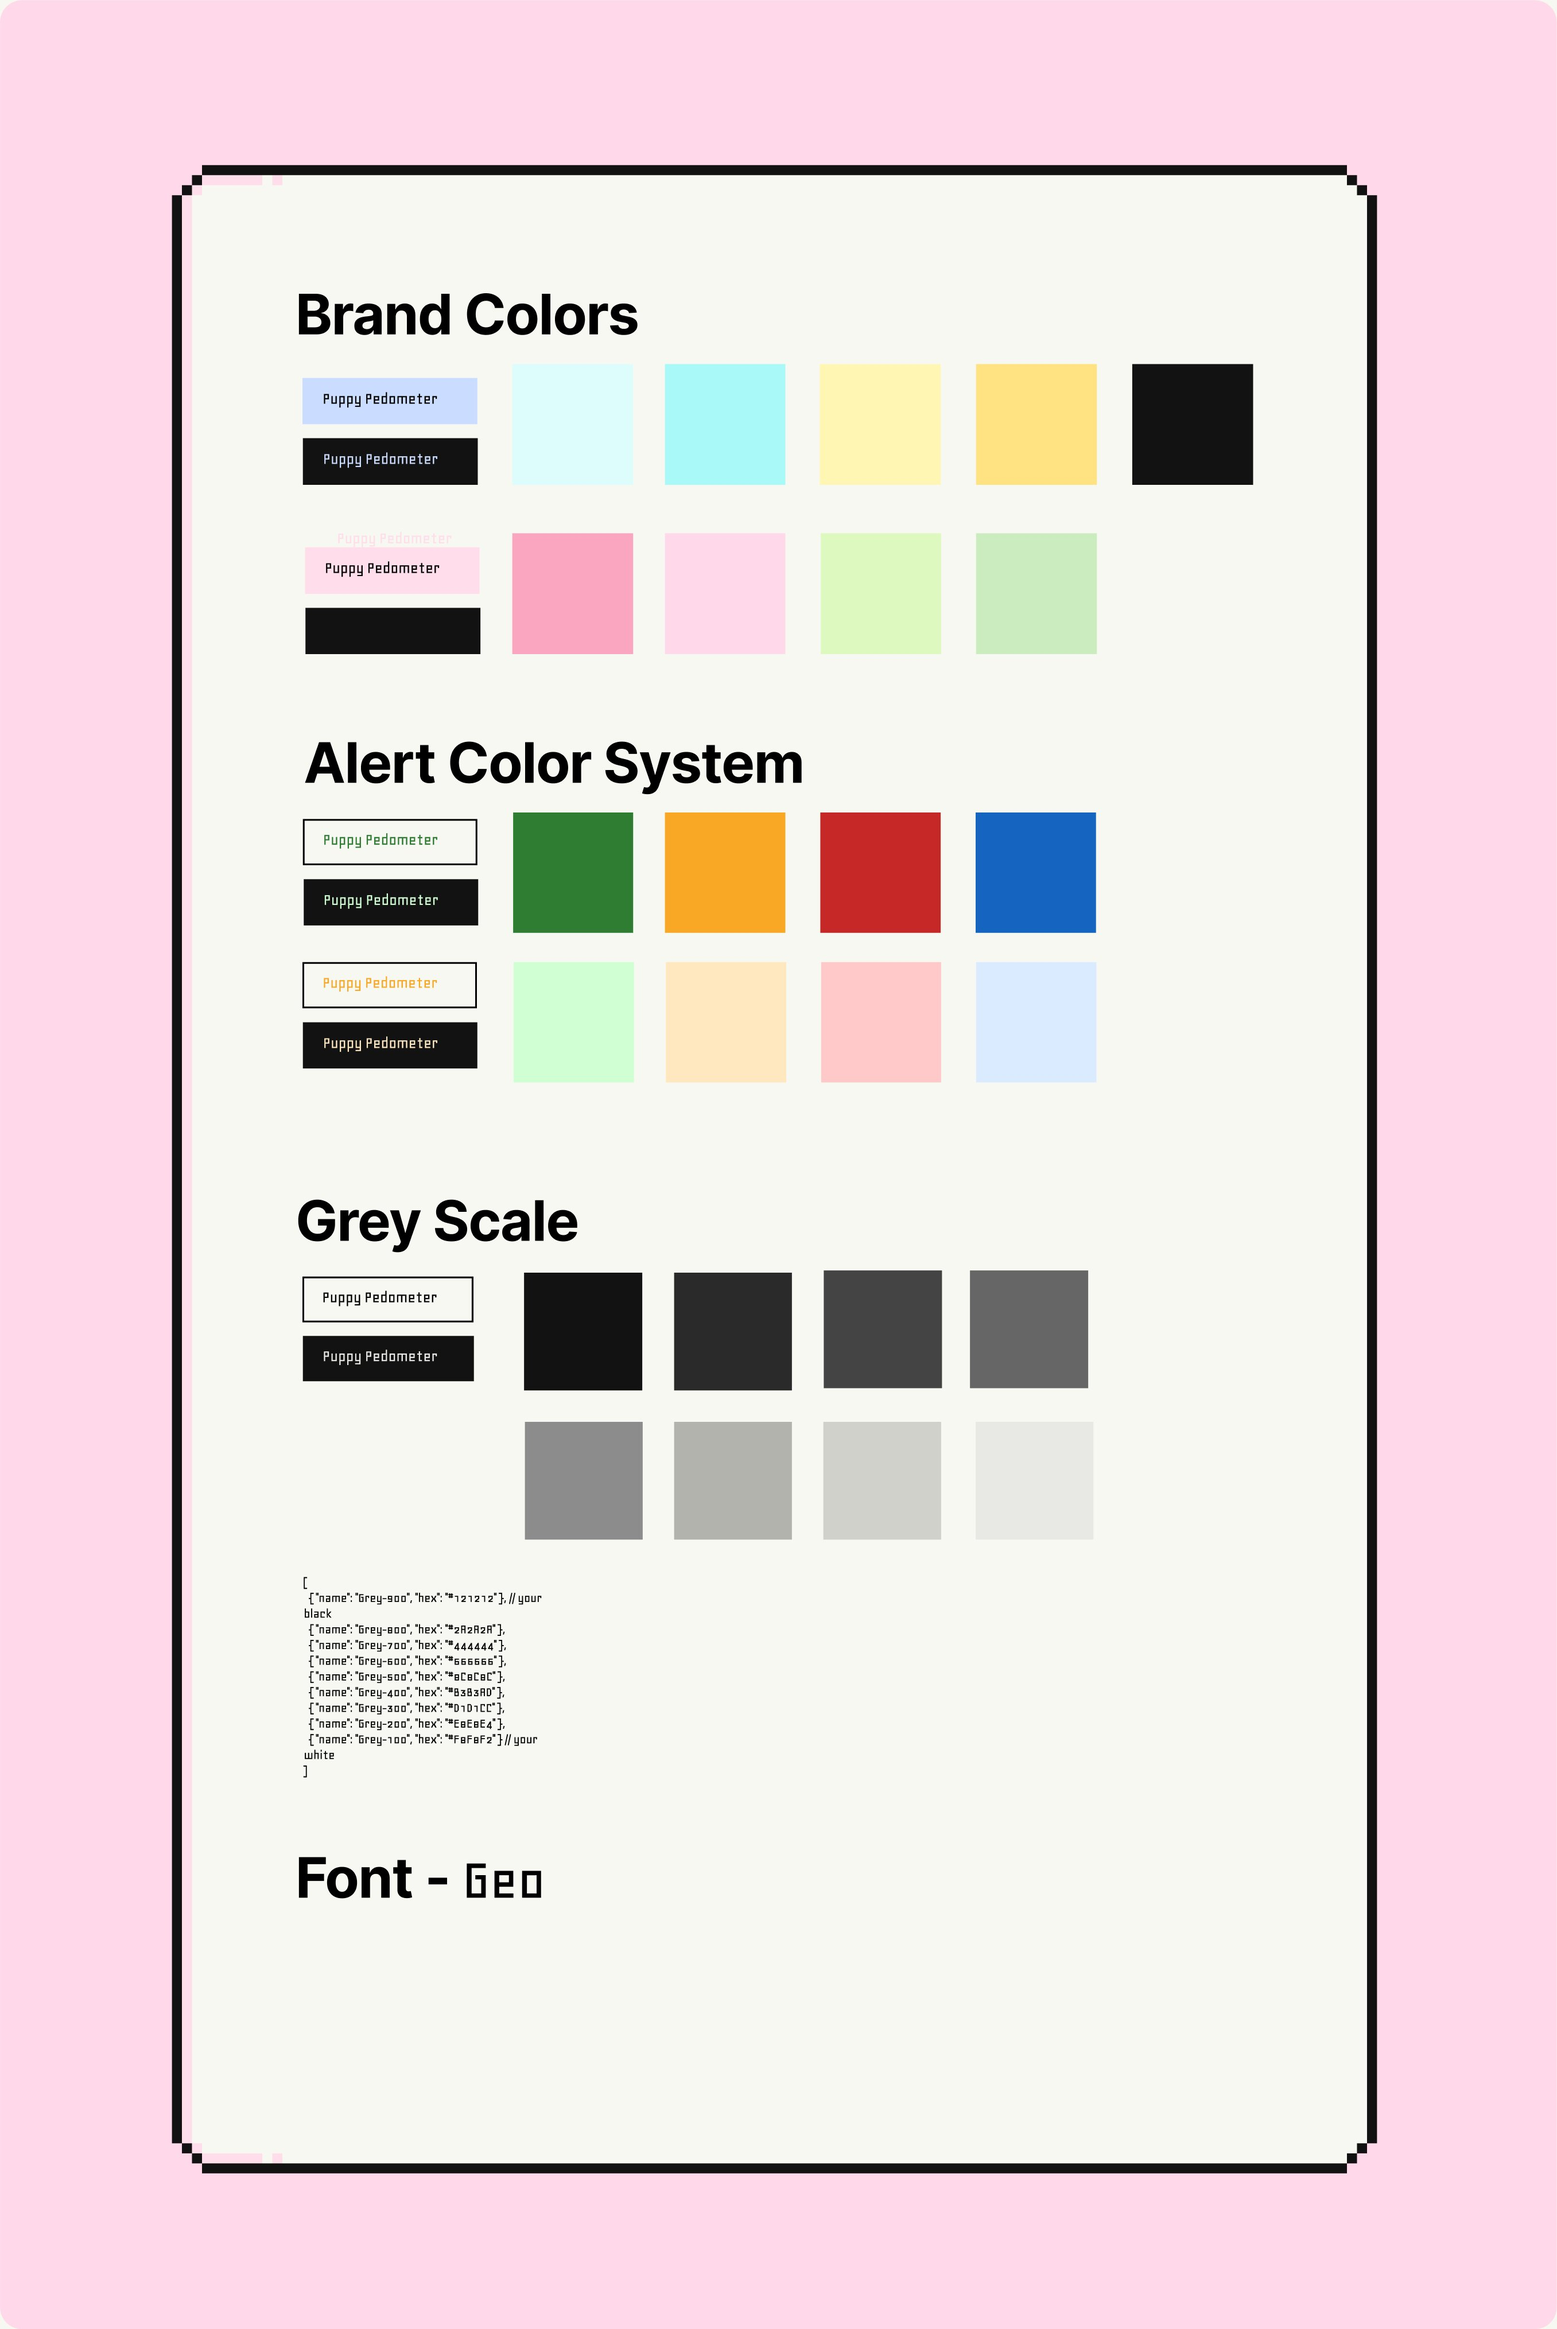
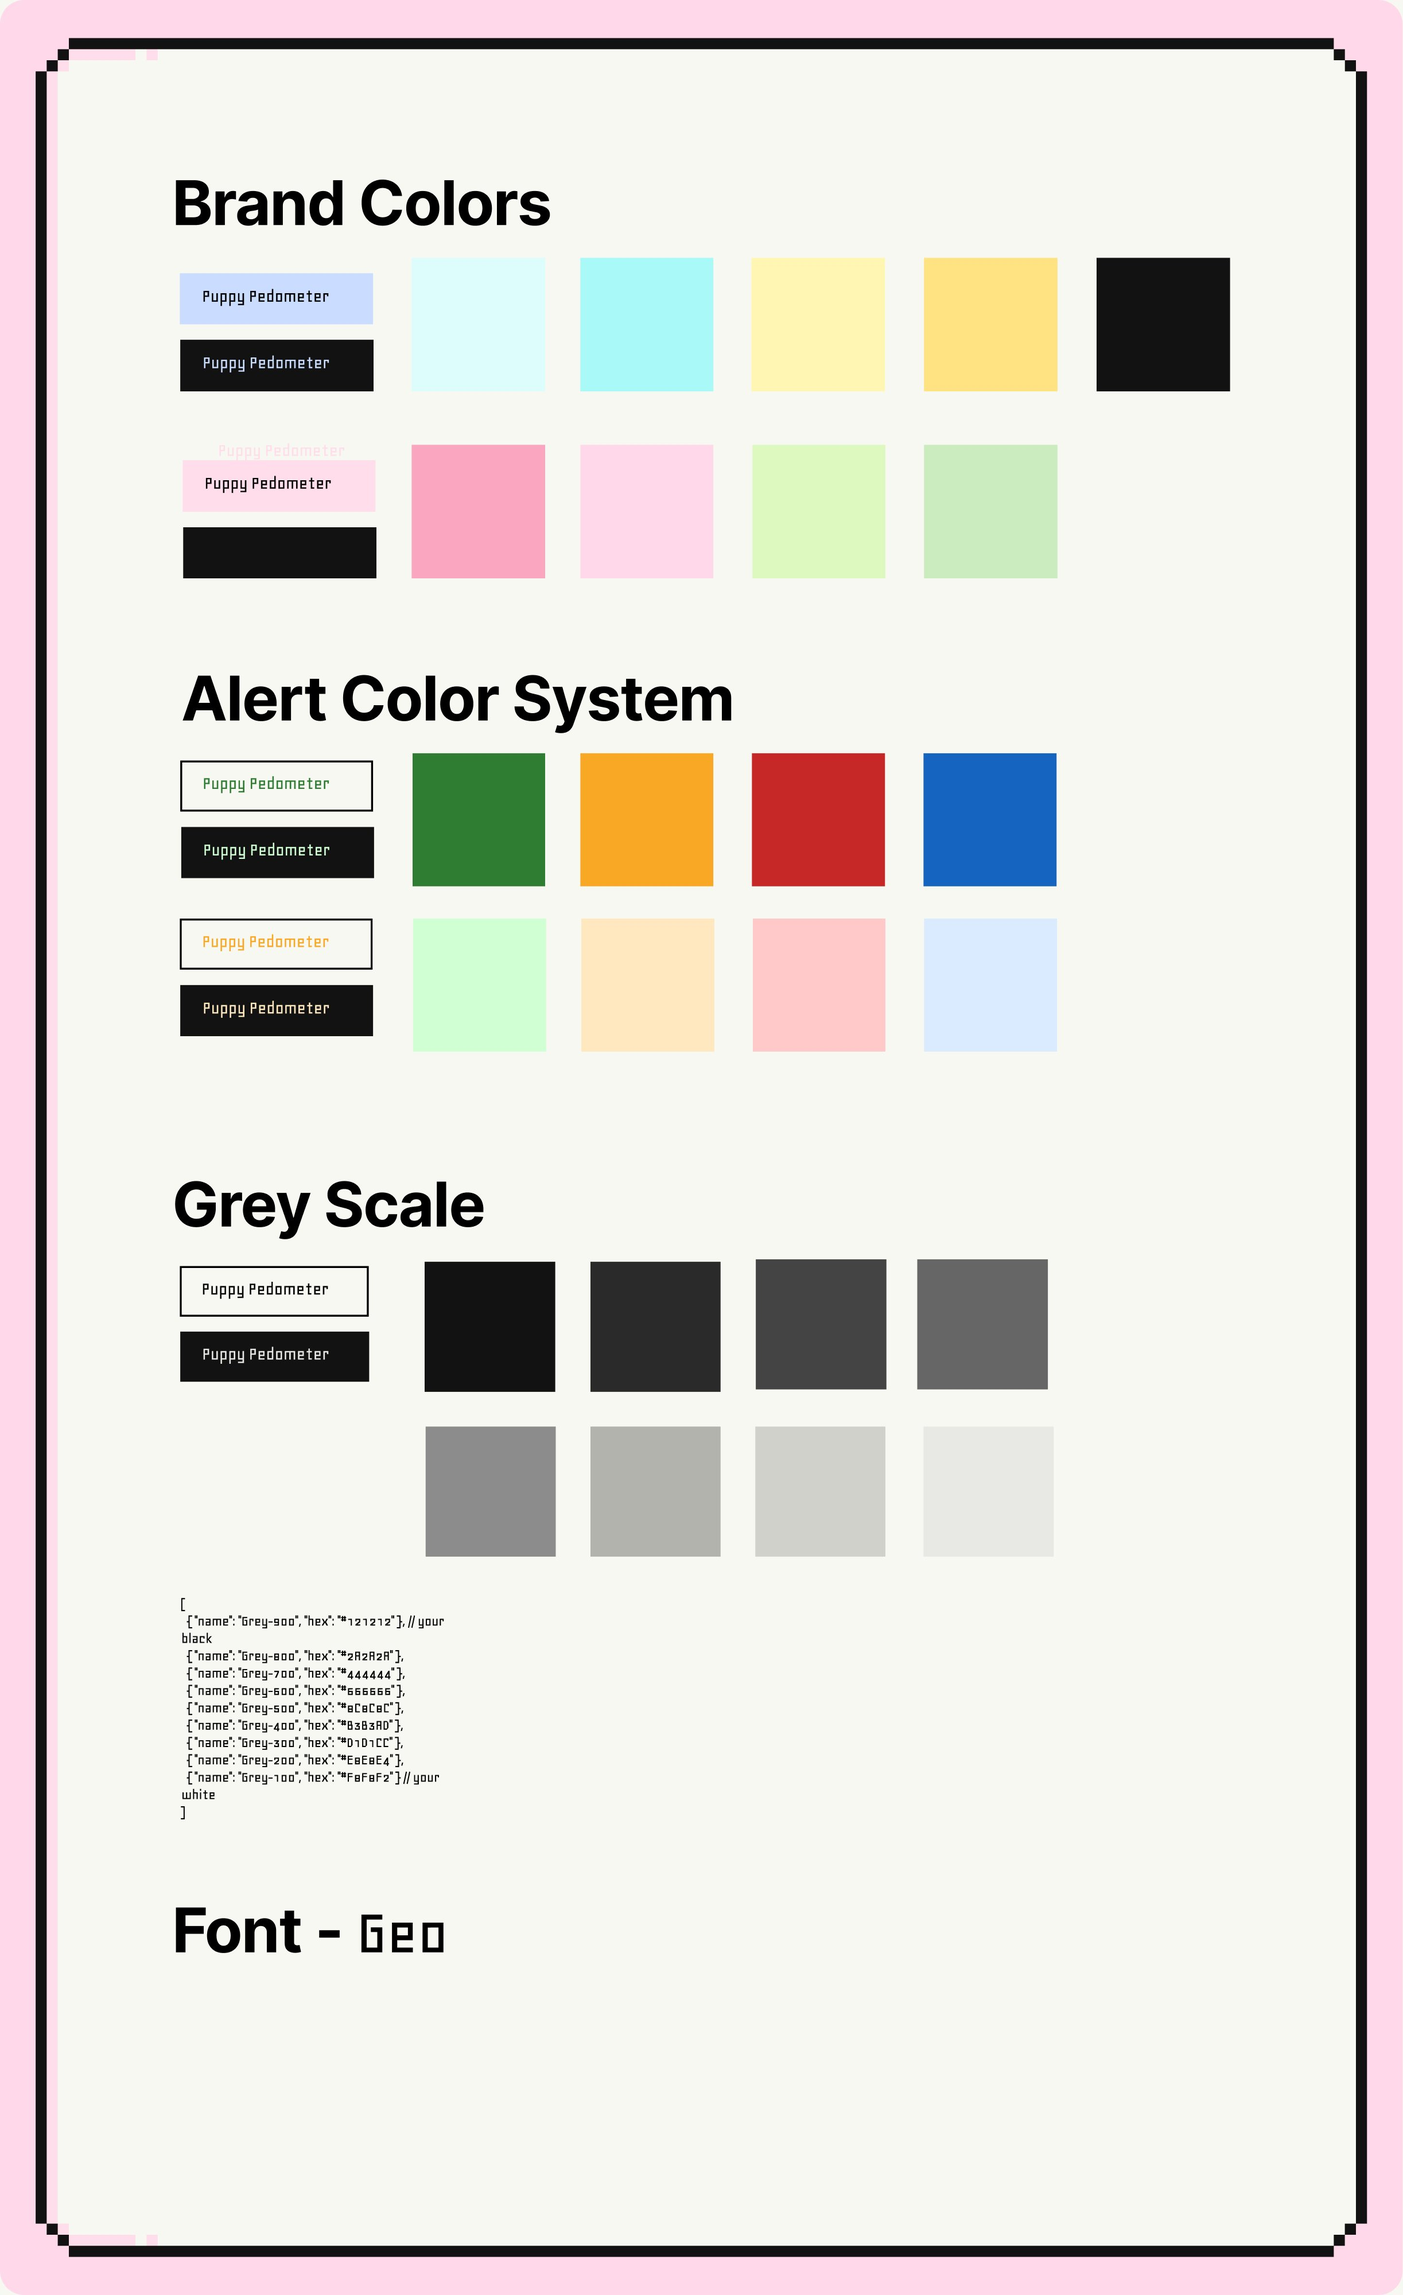
Update Puppy Pedometer style, pixel art and component boards

diff --git a/src/content/projects.ts b/src/content/projects.ts
@@ -131,11 +131,12 @@ export const projects: Project[] = [
             title: "Visual system",
             caption: "A pixel-art moodboard became a style guide: brand and alert colors, a pixel-art library and reusable components.",
             images: [
-              { src: "/images/pp-moodboard.jpg", width: 232, height: 557, alt: "Pixel-art moodboard in pinks and purples" },
-              { src: "/images/pp-style.jpg", width: 232, height: 347, alt: "Style guide with brand colors, alert colors and grey scale" },
-              { src: "/images/pp-pixel-art.jpg", width: 232, height: 347, alt: "Pixel-art library of puppies, accessories and backgrounds" },
-              { src: "/images/pp-components.jpg", width: 232, height: 347, alt: "Component sheet with inputs, buttons, cards and navigation" },
+              { src: "/images/pp-moodboard.jpg", width: 1665, height: 4000, alt: "Pixel-art moodboard in pinks and purples" },
+              { src: "/images/pp-style.jpg", width: 2445, height: 4000, alt: "Style guide with brand colors, alert colors, grey scale and font" },
+              { src: "/images/pp-pixel-art.jpg", width: 4000, height: 2460, alt: "Pixel-art library: buttons, inputs, cards, puppies at each growth stage, customization, icons and backgrounds", wide: true },
+              { src: "/images/pp-components.jpg", width: 4000, height: 2460, alt: "Component sheet with typography, buttons, inputs, cards and modals, step charts and navigation", wide: true },
             ],
+            columns: 2,
           },
           {
             title: "Low-fidelity screens",
